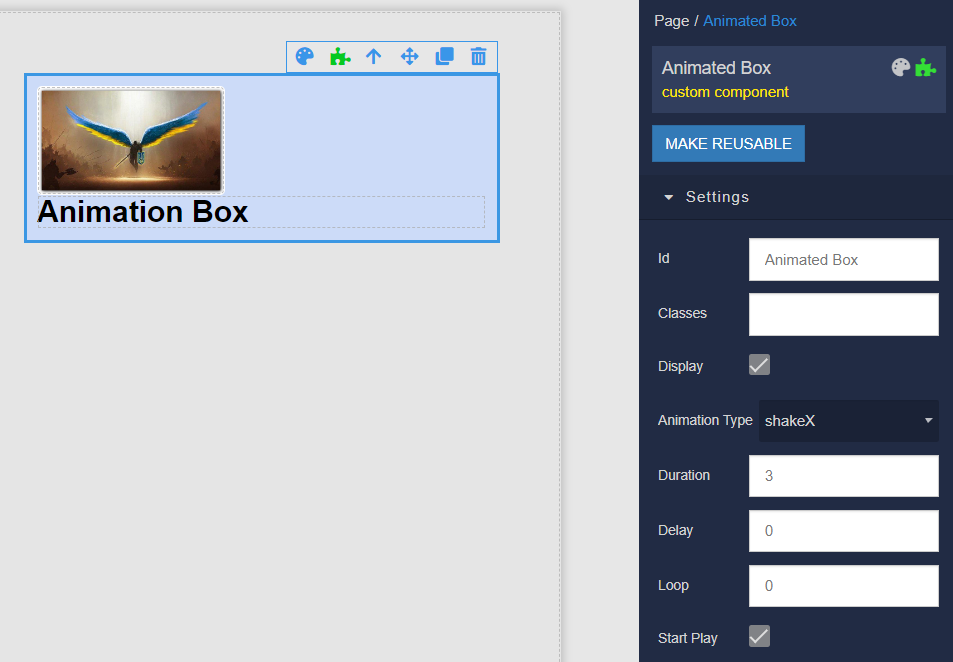
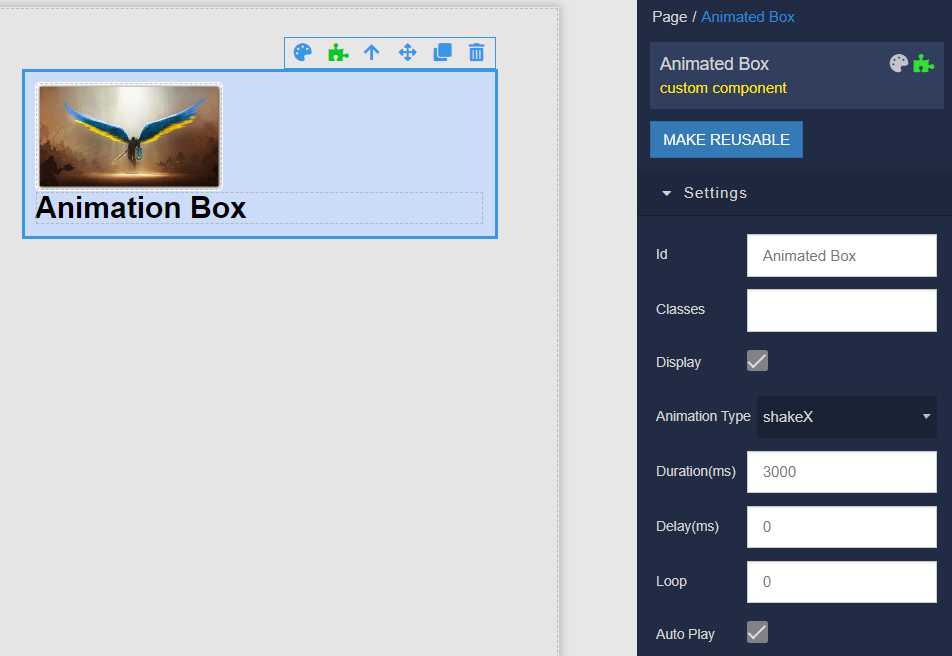
refactored

diff --git a/components/bl-animatedBox-component/src/index.js b/components/bl-animatedBox-component/src/index.js
@@ -3,56 +3,26 @@ import { useCallback, useEffect, useMemo, useState } from 'react';
 const { cn } = BackendlessUI.CSSUtils;
 
 const INFINITE = 'infinite';
-const DEFAULT_ZERO = 0;
-const DEFAULT_ONE = '1s';
+const ONE_SECOND = '1s';
 
 export default function AnimatedBoxComponent({ component, elRef, eventHandlers, pods }) {
-  const { style, classList, display, type, duration, delay, loop, autoStart } = component;
+  const { style, classList, display, type, duration, delay, loop, autoPlay } = component;
   const { onMouseOver, onMouseOut, onClick, onAnimationStart, onCycleComplete, onAnimationEnd } = eventHandlers;
 
-  const [isAnimating, setIsAnimating] = useState(false);
-  const [hasStarted, setHasStarted] = useState(autoStart);
-  const [isInViewport, setIsInViewport] = useState(null);
+  const [isStopped, setIsStopped] = useState(!autoPlay);
 
   const styles = useStyles(style, duration, delay, loop);
+  const isInViewport = useObserver(elRef, display);
+  const animated = !isStopped && isInViewport;
 
   const handleAnimationEnd = useCallback(() => {
-    setHasStarted(false);
-    setIsAnimating(false);
+    setIsStopped(true);
+
     onAnimationEnd();
   }, []);
 
-  useEffect(() => {
-    const ref = elRef.current;
-
-    if (!ref) {
-      return;
-    }
-
-    const observer = new IntersectionObserver(([entry]) => setIsInViewport(entry.isIntersecting), { threshold: 0.5 });
-
-    observer.observe(ref);
-
-    return () => observer.unobserve(ref);
-  }, [elRef, display]);
-
-  useEffect(() => {
-    if (isInViewport && hasStarted) {
-      setIsAnimating(true);
-    } else {
-      setIsAnimating(false);
-    }
-  }, [isInViewport, hasStarted]);
-
-  component.play = () => {
-    setIsAnimating(true);
-    setHasStarted(true);
-  }
-
-  component.stop = () => {
-    setIsAnimating(false);
-    setHasStarted(false);
-  }
+  component.play = () => setIsStopped(false);
+  component.stop = () => setIsStopped(true);
 
   if (!display) {
     return null;
@@ -70,7 +40,7 @@ export default function AnimatedBoxComponent({ component, elRef, eventHandlers, 
       onAnimationIteration={ onCycleComplete }
       onAnimationEnd={ handleAnimationEnd }>
 
-      <div className={ cn('animated-box-content', { animated: isAnimating }, isAnimating && type) }>
+      <div className={ cn('animated-box-content', { animated }, animated && type) }>
         { pods.animatedBoxContent.render() }
       </div>
     </div>
@@ -78,15 +48,26 @@ export default function AnimatedBoxComponent({ component, elRef, eventHandlers, 
 }
 
 function useStyles(style, duration, delay, loop) {
-  return useMemo(() => {
-    const animDuration = duration > 0 ? `${ duration }s` : DEFAULT_ONE;
-    const animDelay = delay > 0 ? `${ delay }s` : DEFAULT_ZERO;
-    const animCount = loop > 0 ? loop : INFINITE;
-
-    return {
+  return useMemo(() => ({
     ...style,
-    '--animate-duration'       : animDuration,
-    '--animate-delay'          : animDelay,
-    '--animate-iteration-count': animCount,
-  }}, [style, duration, delay, loop]);
+    '--animate-duration'       : duration > 0 ? `${ duration }ms` : ONE_SECOND,
+    '--animate-delay'          : delay > 0 ? `${ delay }ms` : 0,
+    '--animate-iteration-count': loop > 0 ? loop : INFINITE,
+  }), [style, duration, delay, loop]);
+}
+
+function useObserver(ref, display) {
+  const [isInViewport, setIsInViewport] = useState(false);
+
+  useEffect(() => {
+    const observer = new IntersectionObserver(([entry]) => setIsInViewport(entry.isIntersecting), { threshold: 0.5 });
+
+    if (ref.current) {
+      observer.observe(ref.current);
+    }
+
+    return () => ref.current && observer.unobserve(ref.current);
+  }, [ref, display]);
+
+  return isInViewport;
 }

diff --git a/components/bl-animatedBox-component/styles/index.less b/components/bl-animatedBox-component/styles/index.less
@@ -5,14 +5,15 @@
 @bl-customComponent-animated-box-animate-iteration-count: infinite;
 
 .bl-customComponent-animated-box {
+  --animate-duration: @bl-customComponent-animated-box-animate-duration;
+  --animate-delay: @bl-customComponent-animated-box-animate-delay;
+  --animate-iteration-count: @bl-customComponent-animated-box-animate-iteration-count;
+
   display: flex;
   align-items: center;
   justify-content: center;
   position: relative;
   width: @bl-customComponent-animated-box-width;
-  --animate-duration: @bl-customComponent-animated-box-animate-duration;
-  --animate-delay: @bl-customComponent-animated-box-animate-delay;
-  --animate-iteration-count: @bl-customComponent-animated-box-animate-iteration-count;
 
   .animated {
     -webkit-animation-duration: var(--animate-duration);

diff --git a/components/bl-animatedBox-component/README.md b/components/bl-animatedBox-component/README.md
@@ -8,13 +8,13 @@ Animated Box is the component that can be used in Backendless [UI-Builder](https
 
 ## Properties
 
-| Property                    | Type                                                                                                                                                                                                                                           | Default value | Logic | Data Binding | UI Setting | Description                                                                          |
-|-----------------------------|------------------------------------------------------------------------------------------------------------------------------------------------------------------------------------------------------------------------------------------------|---------------|-------|--------------|------------|--------------------------------------------------------------------------------------|
-| Animation Type <br> `type`  | *Select* <br> [`bounce`, `bounceIn`, `bounceOut`, `flash`, `flip`, `flipInX`, `flipInY`, `heartBeat`, `hinge`, `jackInTheBox`, `jello`, `pulse`, `rotateIn`, `rubberBand`, `shakeX`, `shakeY`, `swing`, `tada`, `wobble`, `zoomIn`, `zoomOut`] | `bounce`      |       | NO           | YES        | Controls the animation type of the component.                                        |
-| Duration <br> `duration`    | *Number*                                                                                                                                                                                                                                       | 1             |       | NO           | YES        | Controls the duration of the animation, in seconds.                                  |
-| Delay <br> `delay`          | *Number*                                                                                                                                                                                                                                       | 0             |       | NO           | YES        | Controls the duration to delay the animation, in seconds.                            |
-| Loop <br> `loop`            | *Number*                                                                                                                                                                                                                                       | 0             |       | NO           | YES        | Controls the number of times the animation should loop, 0 is equivalent to infinite. |
-| Start Play <br> `autoStart` | *Checkbox*                                                                                                                                                                                                                                     | `true`        |       | NO           | YES        | Controls whether to play animation on startup or not.                                |
+| Property                     | Type                                                                                                                                                                                                                                           | Default value | Logic | Data Binding | UI Setting | Description                                                                          |
+|------------------------------|------------------------------------------------------------------------------------------------------------------------------------------------------------------------------------------------------------------------------------------------|---------------|-------|--------------|------------|--------------------------------------------------------------------------------------|
+| Animation Type <br> `type`   | *Select* <br> [`bounce`, `bounceIn`, `bounceOut`, `flash`, `flip`, `flipInX`, `flipInY`, `heartBeat`, `hinge`, `jackInTheBox`, `jello`, `pulse`, `rotateIn`, `rubberBand`, `shakeX`, `shakeY`, `swing`, `tada`, `wobble`, `zoomIn`, `zoomOut`] | `bounce`      |       | NO           | YES        | Controls the component animation type.                                               |
+| Duration(ms) <br> `duration` | *Number*                                                                                                                                                                                                                                       | 1000          |       | NO           | YES        | Controls the animation duration, in milliseconds.                                    |
+| Delay(ms) <br> `delay`       | *Number*                                                                                                                                                                                                                                       | 0             |       | NO           | YES        | Controls the animation delay duration, in milliseconds.                              |
+| Loop <br> `loop`             | *Number*                                                                                                                                                                                                                                       | 0             |       | NO           | YES        | Controls the number of times the animation must repeat, 0 is equivalent to infinite. |
+| Auto Play <br> `autoPlay`    | *Checkbox*                                                                                                                                                                                                                                     | `true`        |       | NO           | YES        | Controls whether to play animation on startup or not.                                |
 
 ## Events
 
